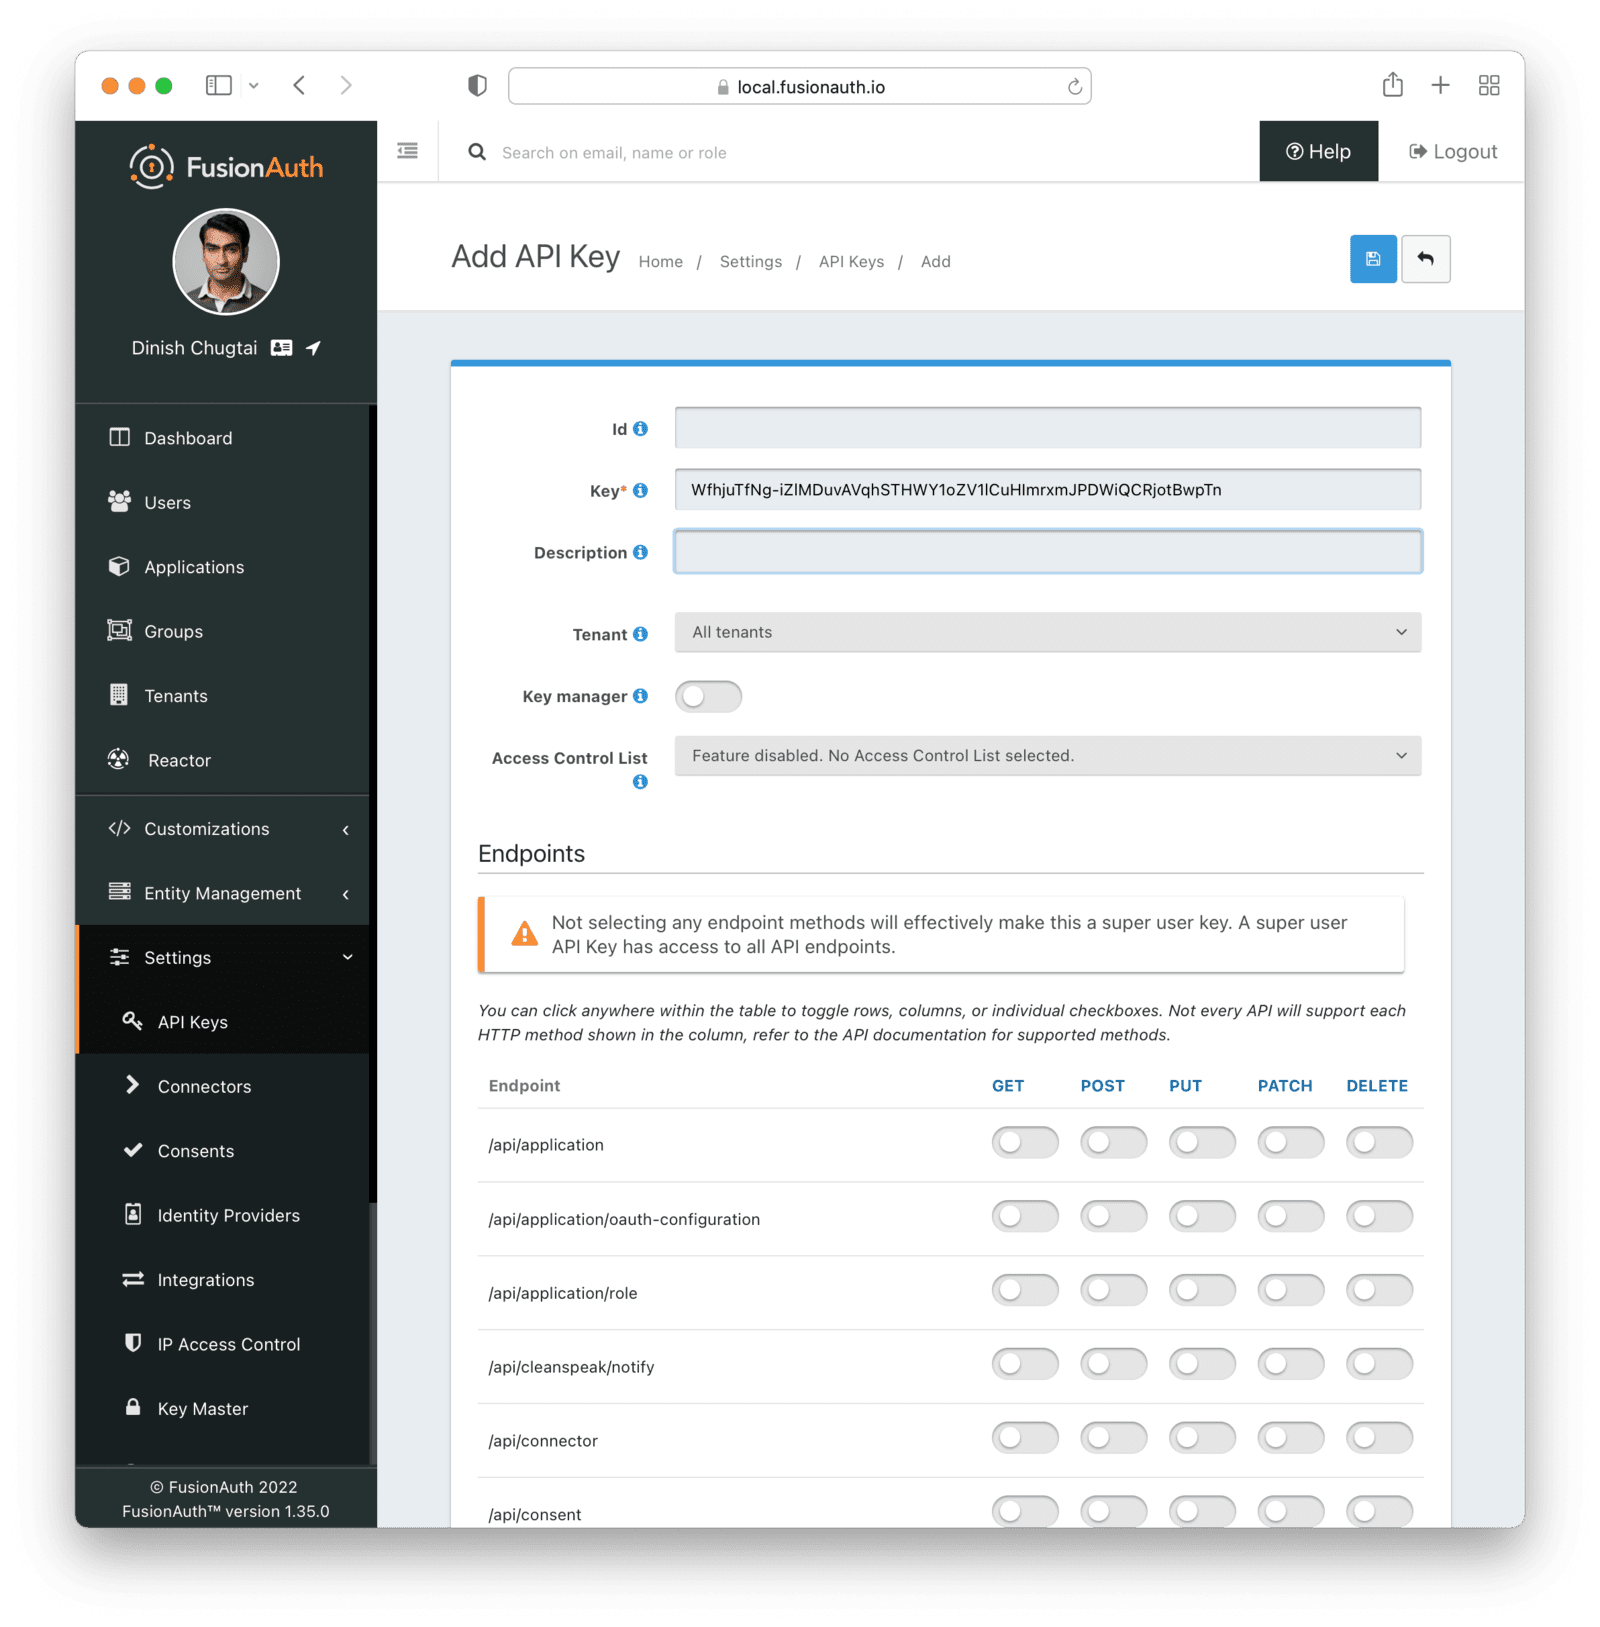
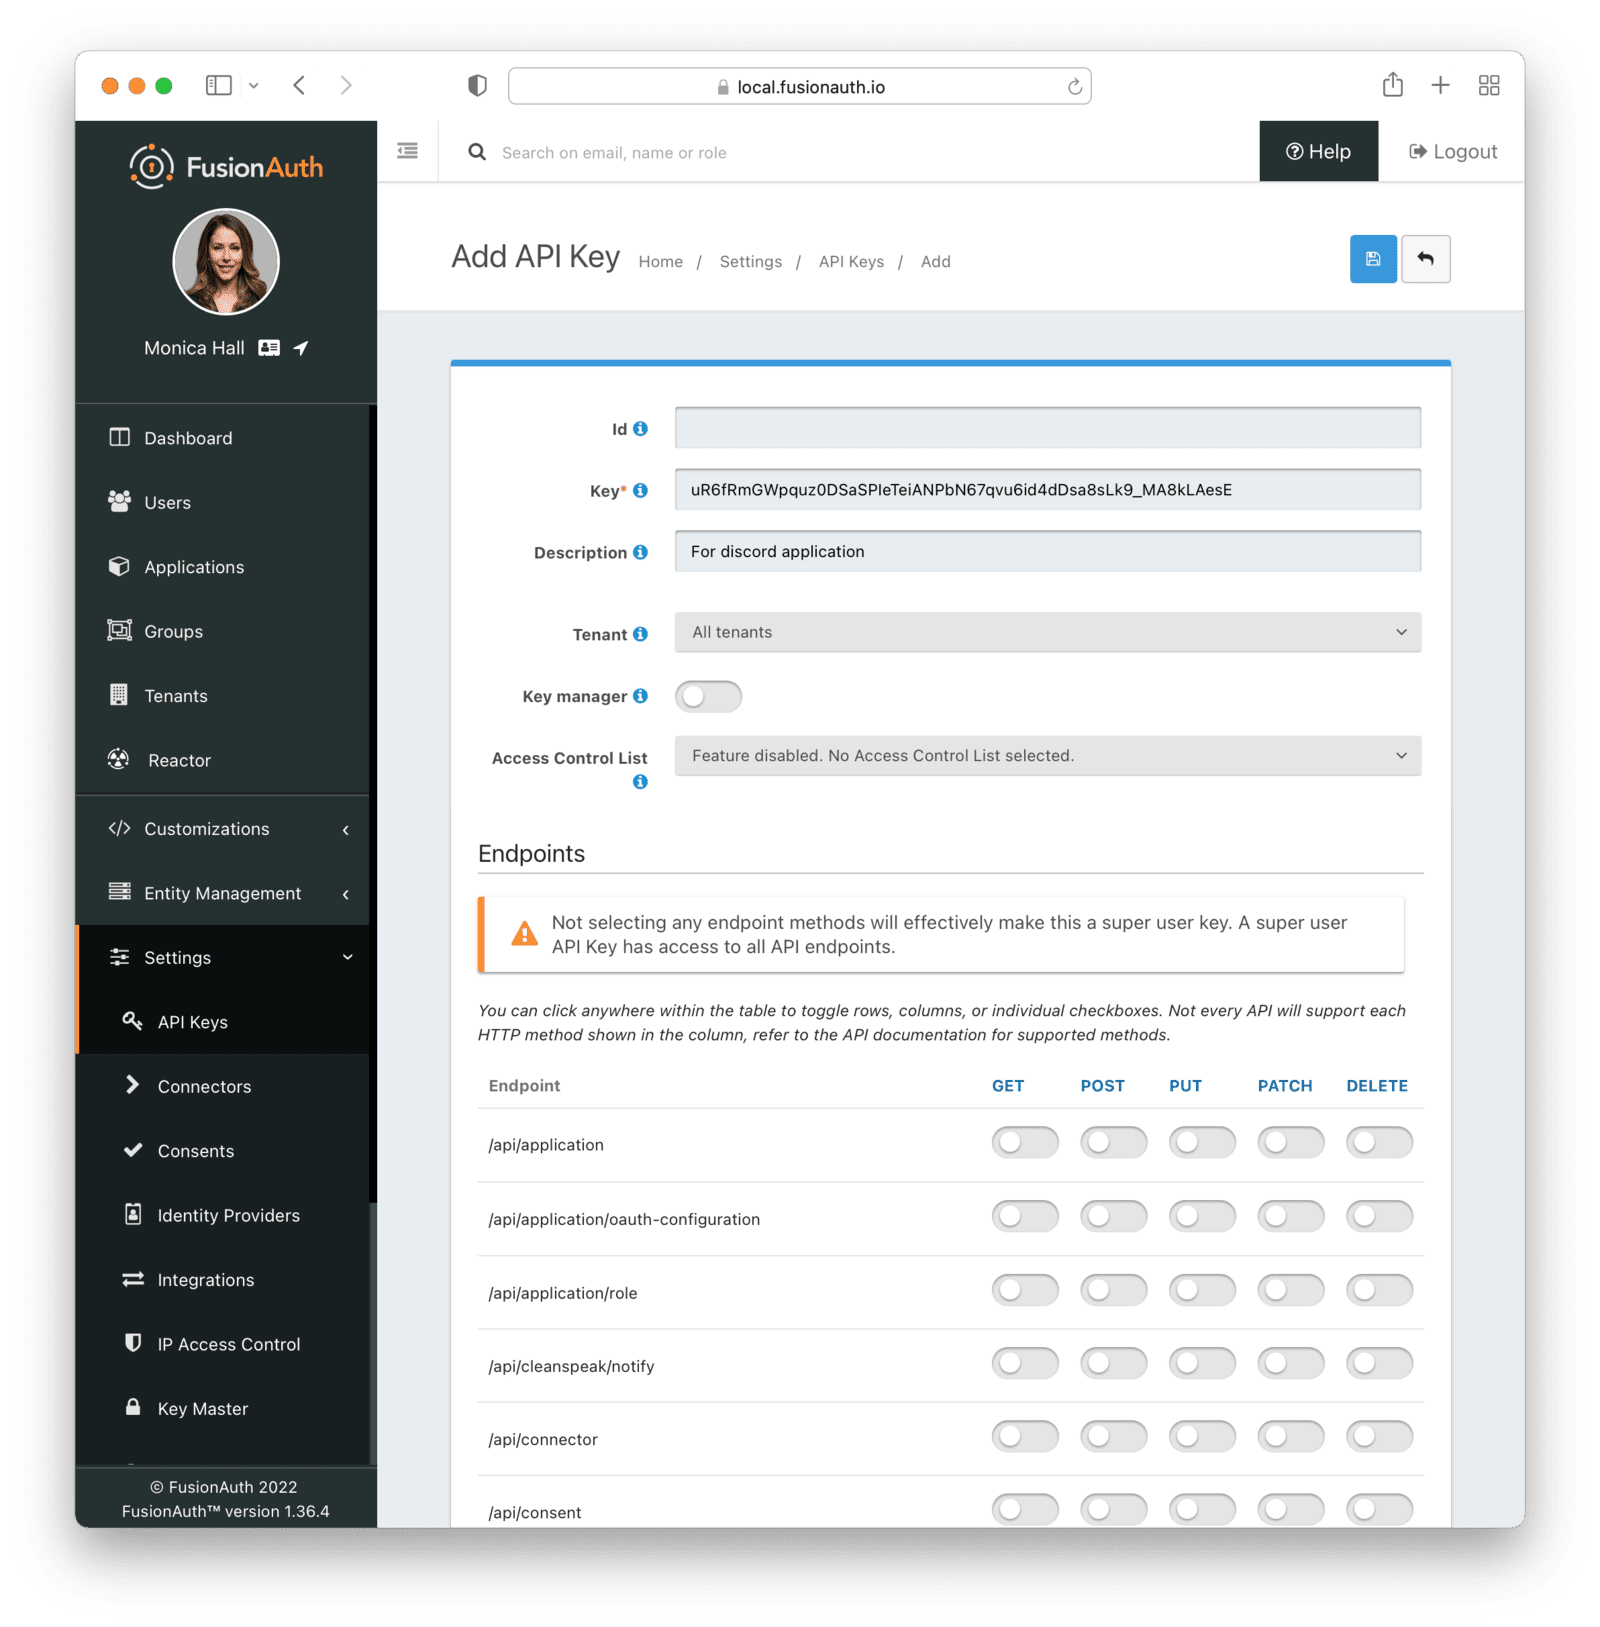
Added in images, read through.

diff --git a/site/_posts/2022-04-25-single-sign-on-with-discord.md b/site/_posts/2022-04-25-single-sign-on-with-discord.md
@@ -43,45 +43,65 @@ docker-compose up
 
 Next, it's time to configure FusionAuth. If this is your first time logging in to your FusionAuth instance, you need to register an account. Just enter your name, email, password, and click "Submit". There's also [a tutorial about setting up an instance the first time](/docs/v1/tech/tutorials/setup-wizard).
 
-You can also use this [sample kickstart file](https://github.com/FusionAuth/fusionauth-example-kickstart/blob/master/example-apps/drupal-sso.json) to set up everything if you don't want to do these steps manually. Make sure to review the kickstart file and update the authorized redirect URLs, at a minimum. Learn more about [Kickstart here](/docs/v1/tech/installation-guide/kickstart).
+You can also use this [sample kickstart file](https://github.com/FusionAuth/fusionauth-example-kickstart/blob/master/example-apps/discord-sso.json) to set up everything if you don't want to do these steps manually. Make sure to review the kickstart file and update the authorized redirect URLs, at a minimum. Learn more about [Kickstart here](/docs/v1/tech/installation-guide/kickstart).
 
 Once you’ve created your administrator account, you need to create a new application. Navigate to "Applications" in the sidebar, and click the Plus button at the top of the screen.
 
-{% include _image.liquid src="/assets/img/blogs/single-sign-on-discord/application-details.png" alt="Application details." class="img-fluid" figure=true %}
+{% include _image.liquid src="/assets/img/blogs/single-sign-on-discord/application-creation.png" alt="Application creation screen." class="img-fluid" figure=true %}
 
-TODO stopped here
+You can leave the “Id” field blank, and it will generate a new universally unique identifier (UUID) for you. Give the application an appropriate name, and then move to the OAuth tab. For this tutorial, change the Client Authentication field to "Not required when using PKCE," and the PKCE field to "Not required when using client authentication."
 
-You can leave the “Id” field blank, and it will generate a new universally unique identifier (UUID) for you. Give the application an appropriate name, and then move to the OAuth tab. For this tutorial, change the Client Authentication field to “Not required when using PKCE,” and the PKCE field to “Not required when using client authentication.”
+Add an Authorized Redirect URL with a value of `http://localhost:9000/oauth-callback`, and set the logout URL as `http://localhost:8080`. These two URLs will resolve to the sample application, which you will configure shortly. 
 
-Add an Authorized Redirect URL with a value of `http://localhost:9000/oauth-callback`, and set the logout URL as `http://localhost:8080`. These two URLs will resolve to the sample application, which you will configure shortly. Save your changes, and note the Id of the newly created application. Select the view icon to go back into your FusionAuth Application, and make a note of the Client Id and Secret. Be sure to label them so you don’t get them mixed up with the Discord Client Id and Secret.
+Save your changes, then click the View icon (the magnifying glass) from the list of applications. This will pull up the details screen. Make a note of the Client Id and Secret. Be sure to label them so you don’t get them mixed up with the Discord Client Id and Secret.
 
-Navigate to "Settings > Identity Providers". This is where you’ll configure the actual Discord Identity Provider. Click the dropdown menu at the top and select "Add OpenID Connect".
+{% include _image.liquid src="/assets/img/blogs/single-sign-on-discord/application-view.png" alt="Application details view screen." class="img-fluid" figure=true %}
 
-{% include _image.liquid src="/assets/img/blogs/single-sign-on-discord/add-openid-connect.png" alt="Add OpenID Connect." class="img-fluid" figure=true %}
+Navigate to "Settings" and then to "Identity Providers". This is where you’ll configure the actual Discord Identity Provider. Click the dropdown menu at the top and select "Add OpenID Connect".
+
+{% include _image.liquid src="/assets/img/blogs/single-sign-on-discord/add-openid-connect.png" alt="Add the OpenID Connect Identity Provider." class="img-fluid" figure=true %}
 
 This will take you to another page where you can enter the settings for the Discord application you created previously.
 
-{% include _image.liquid src="/assets/img/blogs/single-sign-on-discord/id-provider-details.png" alt="Identity Provider details." class="img-fluid" figure=true %}
+{% include _image.liquid src="/assets/img/blogs/single-sign-on-discord/id-provider-details.png" alt="Discord Identity Provider details." class="img-fluid" figure=true %}
 
-Give the Identity Provider a meaningful name (like “Discord”), enter the Client Id and Secret from your Discord application, and set the “Client authentication” to “Request body (client_secret_post).” 
+Give the Identity Provider a meaningful name (like "Discord"), enter the Client Id and Secret from your Discord application, and set the "Client authentication" to `Request body (client_secret_post).” 
 
 Next, configure endpoints, which tell FusionAuth how to communicate with Discord during the authentication process. It’s important to set all three endpoints here correctly, otherwise the integration will not work properly. These endpoints have been known to change in the past; however, at the time of writing (February 2022), the values are:
 
-- Authorization endpoint: https://discord.com/api/oauth2/authorize
-- Token endpoint: https://discord.com/api/oauth2/token
-- Userinfo endpoint: https://discord.com/api/users/@me (Note: make sure you use `@me` and not your Discord username here)
+- "Authorization endpoint": `https://discord.com/api/oauth2/authorize`
+- "Token endpoint": `https://discord.com/api/oauth2/token`
+- "Userinfo endpoint": `https://discord.com/api/users/@me` (Note: make sure you use `@me` and not your Discord username here)
 
-If you have trouble with these settings, be sure to refer to the [official Discord documentation](https://discord.com/developers/docs/topics/oauth2). Again, these URLS have changed in the past, and may change again in the future.
+{% include _callout-tip.liquid content="If you have trouble with these settings, be sure to refer to the [official Discord documentation](https://discord.com/developers/docs/topics/oauth2). Again, these URLS have changed in the past, and may change again in the future." %}
 
-You also need to change the value of “Scope” to “identify email,” and update “Button text” to “Log In with Discord” as well. The button text is a cosmetic, not functional, change. Next, make sure this Identity Provider is enabled for the FusionAuth application you created previously. You should be able to see your application listed at the bottom of the screen, alongside the default “FusionAuth” application, and you can enable it here. Finally, go to the “Options” tab, and update the “Unique Id claim” from “sub” to “id.” You can now save your Identity Provider.
+You also need to change the value of "Scope" to `identify email` and update "Button text" to "Log In with Discord". The button text is a cosmetic, not functional, change.
 
-The last thing you need to do in the FusionAuth admin panel is to create an API key for the sample application. To do this, navigate to Settings > API Keys, and click the "Plus" button at the top. Leave the Id blank, and make a note of the Key value, then click the save button.
+{% include _image.liquid src="/assets/img/blogs/single-sign-on-discord/id-provider-details-enabling-application.png" alt="Enabling the Discord Identity Provider for the demo app." class="img-fluid" figure=true %}
+
+Next, make sure this Identity Provider is enabled for the FusionAuth application you created previously. You should be able to see your application listed at the bottom of the screen, alongside the default FusionAuth application. Enable the Discord Identity Provider for this application.
+
+{% include _image.liquid src="/assets/img/blogs/single-sign-on-discord/id-provider-details-update-unique-id-claim.png" alt="Configuring the Unique Id claim." class="img-fluid" figure=true %}
+
+Finally, go to the "Options" tab, and update the "Unique Id claim" from `sub` to `id`.
+
+Whew. You can now save your Identity Provider.
+
+The last thing you need to do in the FusionAuth admin panel is to create an API key for the sample application.
+
+To do this, navigate to "Settings" then "API Keys", and click the "Plus" button at the top.
 
 {% include _image.liquid src="/assets/img/blogs/single-sign-on-discord/add-api-key.png" alt="Add API Key." class="img-fluid" figure=true %}
 
-Your FusionAuth instance is now configured to work with Discord. To see it in action, you can configure a simple application that will allow you to log in using this new Identity Provider.
+Leave the Id blank, and make a note of the Key value, then click the save button. Note that this creates a key with unlimited privileges. While that is fine for a demo application, limit the permissions for a production application.
 
-Rather than building one from scratch, you can make use of an existing public repo by the FusionAuth team, [FusionAuth Example: React](https://github.com/FusionAuth/fusionauth-example-react).
+Your FusionAuth instance is now configured to work with Discord.
+
+## Setting up the application
+
+While you spent a lot of time configuring FusionAuth and Discord, there has to be an application for the user to actually log in to! This could be a todo application, a recipe app or a video game application, whatever you're building that you want to add Discord login to.
+
+For this demo, to see the Discord login in action, configure a simple application that will allow you to log in using this new Identity Provider. Rather than building one from scratch, you can make use of an existing public repo by the FusionAuth team, [FusionAuth Example: React](https://github.com/FusionAuth/fusionauth-example-react).
 
 Clone this repo to your machine, and navigate to the `config.js` file located in the root directory of the project. Enter your details from when you set up your FusionAuth instance in the following fields:
 
@@ -98,9 +118,20 @@ Click the "sign in" button, which will take you to your FusionAuth instance’s 
 
 {% include _image.liquid src="/assets/img/blogs/single-sign-on-discord/discord-authorization-prompt.png" alt="Discord authorization prompt." class="img-fluid" figure=true %}
 
-After clicking "Authorize", you’ll be taken back to the FusionAuth Example Application, where you’ll be presented with a response object containing your user data from Discord. If you see this, you have successfully authenticated with FusionAuth via Discord.
+After clicking "Authorize", you’ll be taken back to the FusionAuth Example Application, where you’ll be presented with a response object containing your user data from Discord.
 
-## Wrapping Up
+If you see this, you have successfully authenticated with FusionAuth via Discord. Ta-da!
 
-If you’ve followed along, you should now have a FusionAuth instance configured to authenticate with Discord. As you would have seen during the configuration process, there are plenty more identity providers, and even more configuration options to choose from. Embrace the ways of SSO, and never worry about adding authentication to a project again.
+## Wrapping up
 
+If you’ve followed along, you should now have a FusionAuth instance configured to authenticate with Discord. As you would have seen during the configuration process, there are plenty more identity providers, and even more configuration options to choose from.
+
+Embrace the ways of SSO, and never worry about adding authentication to a project again.
+
+## Take it further
+
+Some areas that you may want explore:
+
+- Adding logins to other providers, such as Google or Facebook.
+- Exploring roles and self-registration. Have the React app get information about the roles and offer different functionality for different roles.
+- Install a [different example application](/docs/v1/tech/example-apps/) and set up Discord login for that application. Then you can SSO between both of them. For more, read the [SSO guide](/docs/v1/tech/guides/single-sign-on).
